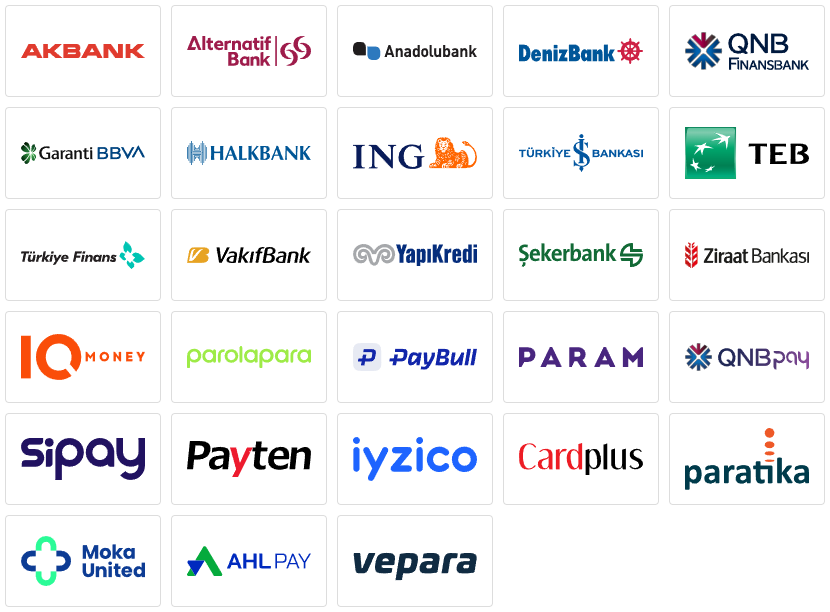
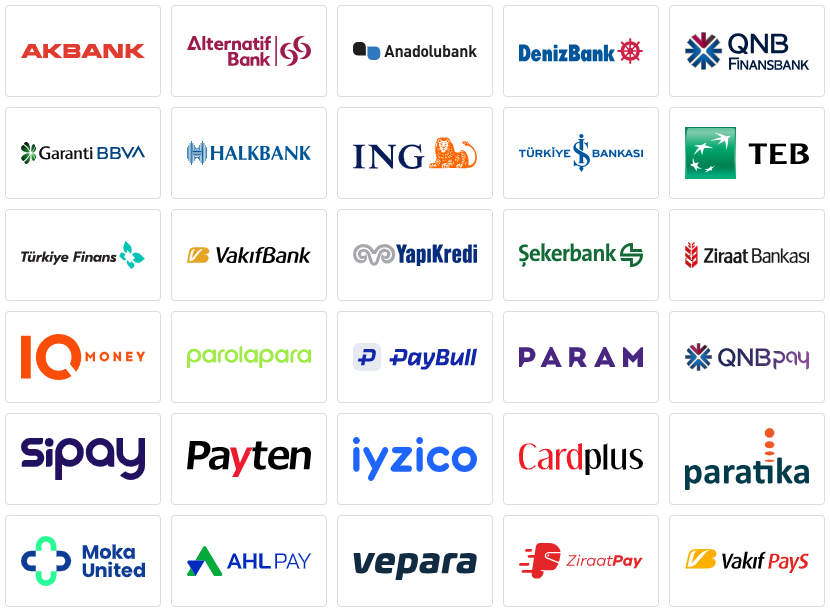
readme update

diff --git a/README.md b/README.md
@@ -16,6 +16,8 @@ CP.VPOS, Türkiye'deki birçok bankanın sanal pos entegrasyonlarını tek bir k
 + **.NET Uyumluluğu:** Kütüphane, .NET Framework, .NET Core ve .NET MAUI da dahil olmak üzere tüm .NET sürümleriyle tam uyumludur. Bu sayede farklı projelerde kolayca entegre edilerek kullanılabilir.
 
 ## Sürüm Notları
+### v2.2.0
+ - ZiraatPay ve VakıfPayS sanal pos entegrasyonları eklendi.
 ### v2.1.1
  - Nestpay bankalarında 3D'siz işlemlere sipariş numarası eklendi.
 ### v2.1.0
@@ -74,6 +76,8 @@ Dotnet CLI
 | Ahlpay | ✔ | ✔ | ✔ | ✔ |
 | Moka | ✔ | ✔ | ✔ | ✔ |
 | Vepara | ✔ | ✔ | ✔ | ✔ |
+| ZiraatPay | ✔ | ✔ | ✔ | ✔ |
+| VakıfPayS | ✔ | ✔ | ✔ | ✔ |
 
 
 
@@ -129,6 +133,10 @@ Sanal POS bazlı alan açıklamaları:
 | Ahlpay | CP.VPOS.Services.BankService.Ahlpay | member Id | Api Kullanıcısı Adı | Api Kullanıcısı Şifre | Üye işyeri API Key (hashPassword) |
 | Moka | CP.VPOS.Services.BankService.Moka | Bayi Kodu | Api Kullanıcısı Adı | Api Kullanıcısı Şifre | |
 | Vepara | CP.VPOS.Services.BankService.Vepara | Üye İşyeri ID | Uygulama Anahtarı | Uygulama Parolası | Üye İşyeri Anahtarı |
+| ZiraatPay | CP.VPOS.Services.BankService.ZiraatPay | Firma Kodu | Api Kullanıcısı Adı | Api Kullanıcısı Şifre | |
+| VakıfPayS | CP.VPOS.Services.BankService.VakifPayS | Firma Kodu | Api Kullanıcısı Adı | Api Kullanıcısı Şifre | |
+
+
 
 ## 3D'siz Direkt Satış İşlemi
 
